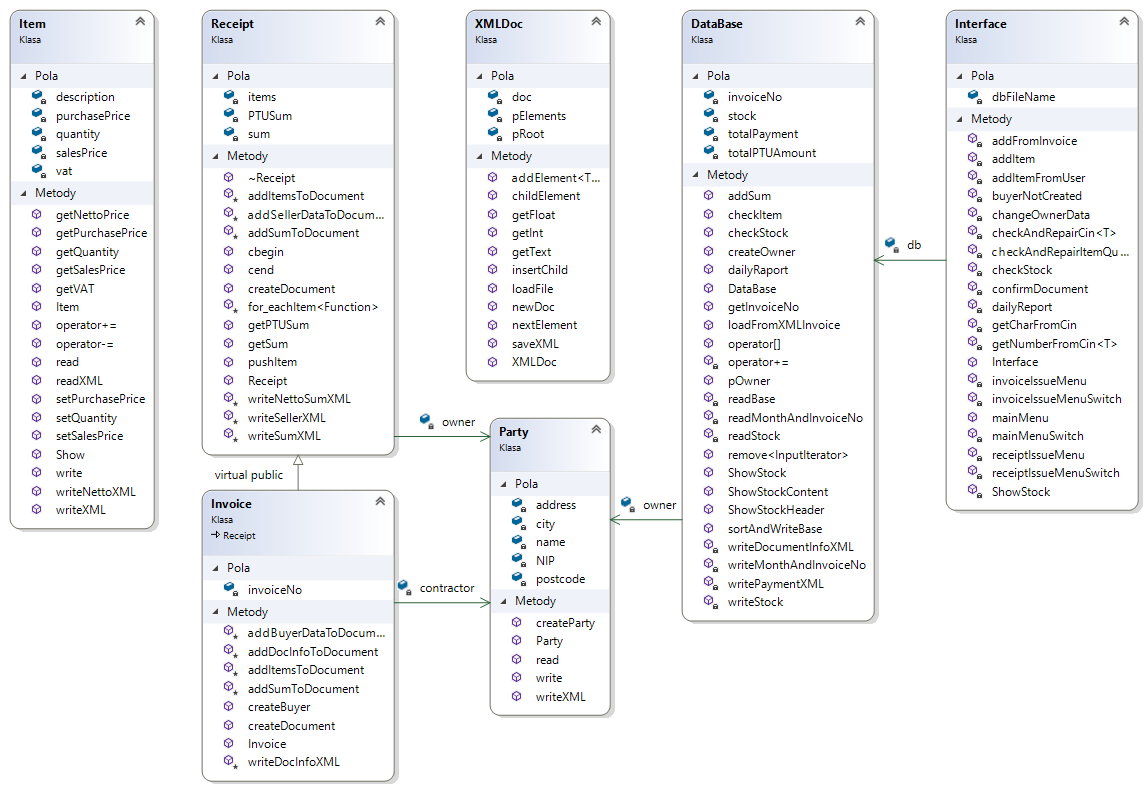
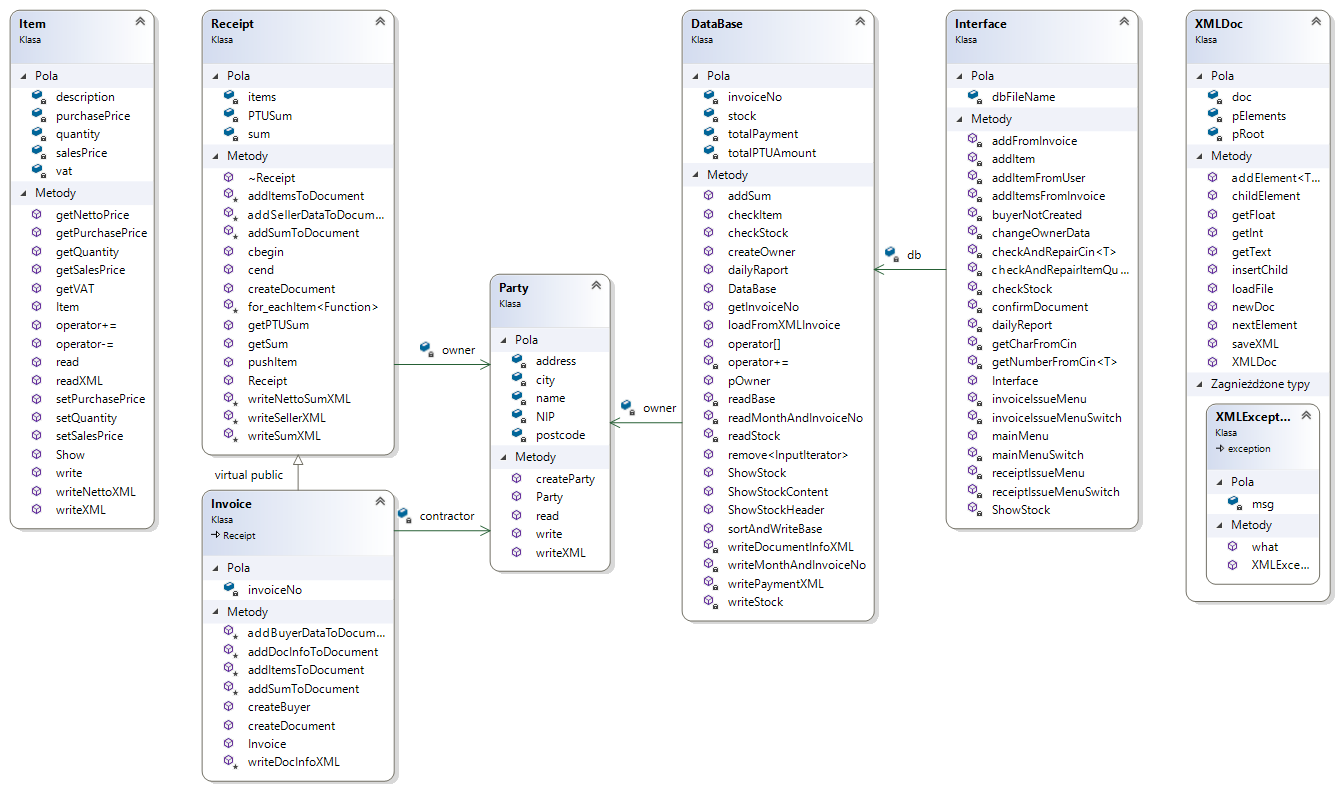
adds XMLException

Changed region(s): [[0.0, 0.0, 1.0, 1.0], [0.0, 0.0, 0.0305, 0.0608]]

diff --git a/Projekt/project2/project2/XMLDoc.cpp b/Projekt/project2/project2/XMLDoc.cpp
@@ -14,7 +14,11 @@ bool XMLDoc::loadFile(const char * docName)
 	using namespace tinyxml2;
 
 	XMLError result = doc.LoadFile(docName);
-	if (result != XML_SUCCESS) return false;
+	if (result != XML_SUCCESS)
+		if (result == XML_ERROR_PARSING_TEXT)
+			throw XMLException("XML_ERROR_PARSING_TEXT");
+		else
+			return false;
 
 	pRoot = doc.LastChild(); //first is <?xml version="1.0" encoding="UTF-8"?>
 	return pRoot ? true : false;
@@ -38,14 +42,16 @@ bool XMLDoc::nextElement(const char * text)
 std::string XMLDoc::getText(const char * text)
 {
 	tinyxml2::XMLElement *pElement = pElements.top()->FirstChildElement(text);
-	//if (!pElement) return false; // XML_ERROR_PARSING_ELEMENT;
+	if (!pElement)
+		throw XMLException("XML_ERROR_PARSING_ELEMENT");
 	return std::string(pElement->GetText());
 }
 
 int XMLDoc::getInt(const char * text)
 {
 	tinyxml2::XMLElement *pElement = pElements.top()->FirstChildElement(text);
-	//if (!pElement) return false; // XML_ERROR_PARSING_ELEMENT;
+	if (!pElement)
+		throw XMLException("XML_ERROR_PARSING_ELEMENT");
 	int temp;
 	pElement->QueryIntText(&temp);
 	return temp;
@@ -54,7 +60,8 @@ int XMLDoc::getInt(const char * text)
 float XMLDoc::getFloat(const char * text)
 {
 	tinyxml2::XMLElement *pElement = pElements.top()->FirstChildElement("Cena_brutto");
-	//if (!pElement) return false; // XML_ERROR_PARSING_ELEMENT;
+	if (!pElement)
+		throw XMLException("XML_ERROR_PARSING_ELEMENT");
 	float temp;
 	pElement->QueryFloatText(&temp);
 	return temp;

diff --git a/Projekt/project2/project2/interface.cpp b/Projekt/project2/project2/interface.cpp
@@ -51,15 +51,26 @@ inline void Interface::changeOwnerData()
 
 inline void Interface::addFromInvoice()
 {
+	try {
+		addItemsFromInvoice();
+	}
+	catch (const XMLDoc::XMLException&) {
+		std::cout << "Bledna zawartosc pliku. [ENTER]";
+		std::cin.ignore(std::numeric_limits<std::streamsize>::max(), '\n');
+	}
+}
+
+inline void Interface::addItemsFromInvoice()
+{
 	std::string path;
 	std::cout << "Podaj sciezke z faktura: ";
 	std::getline(std::cin, path);
 
-	db.loadFromXMLInvoice(path);
-	/*if (!result) {
-		std::cout << "Nie da sie odczytac z pliku. [ENTER]";
+	bool result = db.loadFromXMLInvoice(path);
+	if (!result) {
+		std::cout << "Nie ma takiego pliku lub jest pusty. [ENTER]";
 		std::cin.ignore(std::numeric_limits<std::streamsize>::max(), '\n');
-	}*/
+	}
 }
 
 void Interface::receiptIssueMenu()
@@ -207,4 +218,8 @@ inline void Interface::confirmDocument(Receipt & re)
 	db.addSum(re.getSum(), re.getPTUSum());
 	if (result)
 		db.remove(re.cbegin(), re.cend()); //remove from stock
+	else {
+		std::cout << "Nie udalo sie zapisac pliku. [ENTER]";
+		std::cin.ignore(std::numeric_limits<std::streamsize>::max(), '\n');
+	}
 }

diff --git a/Projekt/project2/project2/dataBase.cpp b/Projekt/project2/project2/dataBase.cpp
@@ -96,9 +96,10 @@ inline void DataBase::writeStock(std::ofstream & ofs) const
 		item.write(ofs);
 }
 
-void DataBase::loadFromXMLInvoice(const std::string & docName) {
+bool DataBase::loadFromXMLInvoice(const std::string & docName) {
 	XMLDoc doc;
-	doc.loadFile(docName.c_str());
+	bool result = doc.loadFile(docName.c_str());
+	if (!result) return false;
 
 	doc.childElement("Pozycje");
 		if (doc.childElement("Pozycja"))
@@ -107,6 +108,8 @@ void DataBase::loadFromXMLInvoice(const std::string & docName) {
 				temp.readXML(doc);
 				(*this) += std::move(temp);
 			} while (doc.nextElement("Pozycja"));
+
+	return true;
 }
 
 bool DataBase::dailyRaport() {

diff --git a/Projekt/project2/project2/XMLDoc.hpp b/Projekt/project2/project2/XMLDoc.hpp
@@ -3,6 +3,7 @@
 #include "tinyxml2/tinyxml2.h"
 #include <stack>
 #include <string>
+#include <exception>
 
 class XMLDoc
 {
@@ -22,6 +23,15 @@ public:
 
 	bool saveXML(const char * docName);
 
+
+	class XMLException : std::exception
+	{
+#include <cstring>
+		char msg[80];
+	public:
+		XMLException(const char *message) { strncpy(msg, message, sizeof(msg)); }
+		char const* what() const override { return msg; }
+	};
 
 	bool loadFile(const char *docName);
 

diff --git a/Projekt/project2/project2/invoice.cpp b/Projekt/project2/project2/invoice.cpp
@@ -26,10 +26,6 @@ bool Invoice::createDocument() const {
 	addSellerDataToDocument(doc);
 	addBuyerDataToDocument(doc);
 	addItemsToDocument(doc);
-
-	/*doc.addElement("Suma");
-		writeSumXML(doc);
-	doc.insertChild();*/
 	addSumToDocument(doc);
 
 	return doc.saveXML(("FV" + std::move(helpfulness::date()) + std::move(std::to_string(invoiceNo)) + ".xml").c_str());

diff --git a/Projekt/project2/project2/dataBase.hpp b/Projekt/project2/project2/dataBase.hpp
@@ -75,7 +75,7 @@ private:
 
 public:
 	//load from file given by parametr
-	void loadFromXMLInvoice(const std::string &docName);
+	bool loadFromXMLInvoice(const std::string &docName);
 
 
 

diff --git a/Projekt/project2/project2/interface.hpp b/Projekt/project2/project2/interface.hpp
@@ -27,6 +27,7 @@ private:
 
 
 	inline void addFromInvoice(); //add items from invoice to database
+	inline void addItemsFromInvoice();
 
 
 	void receiptIssueMenu();
